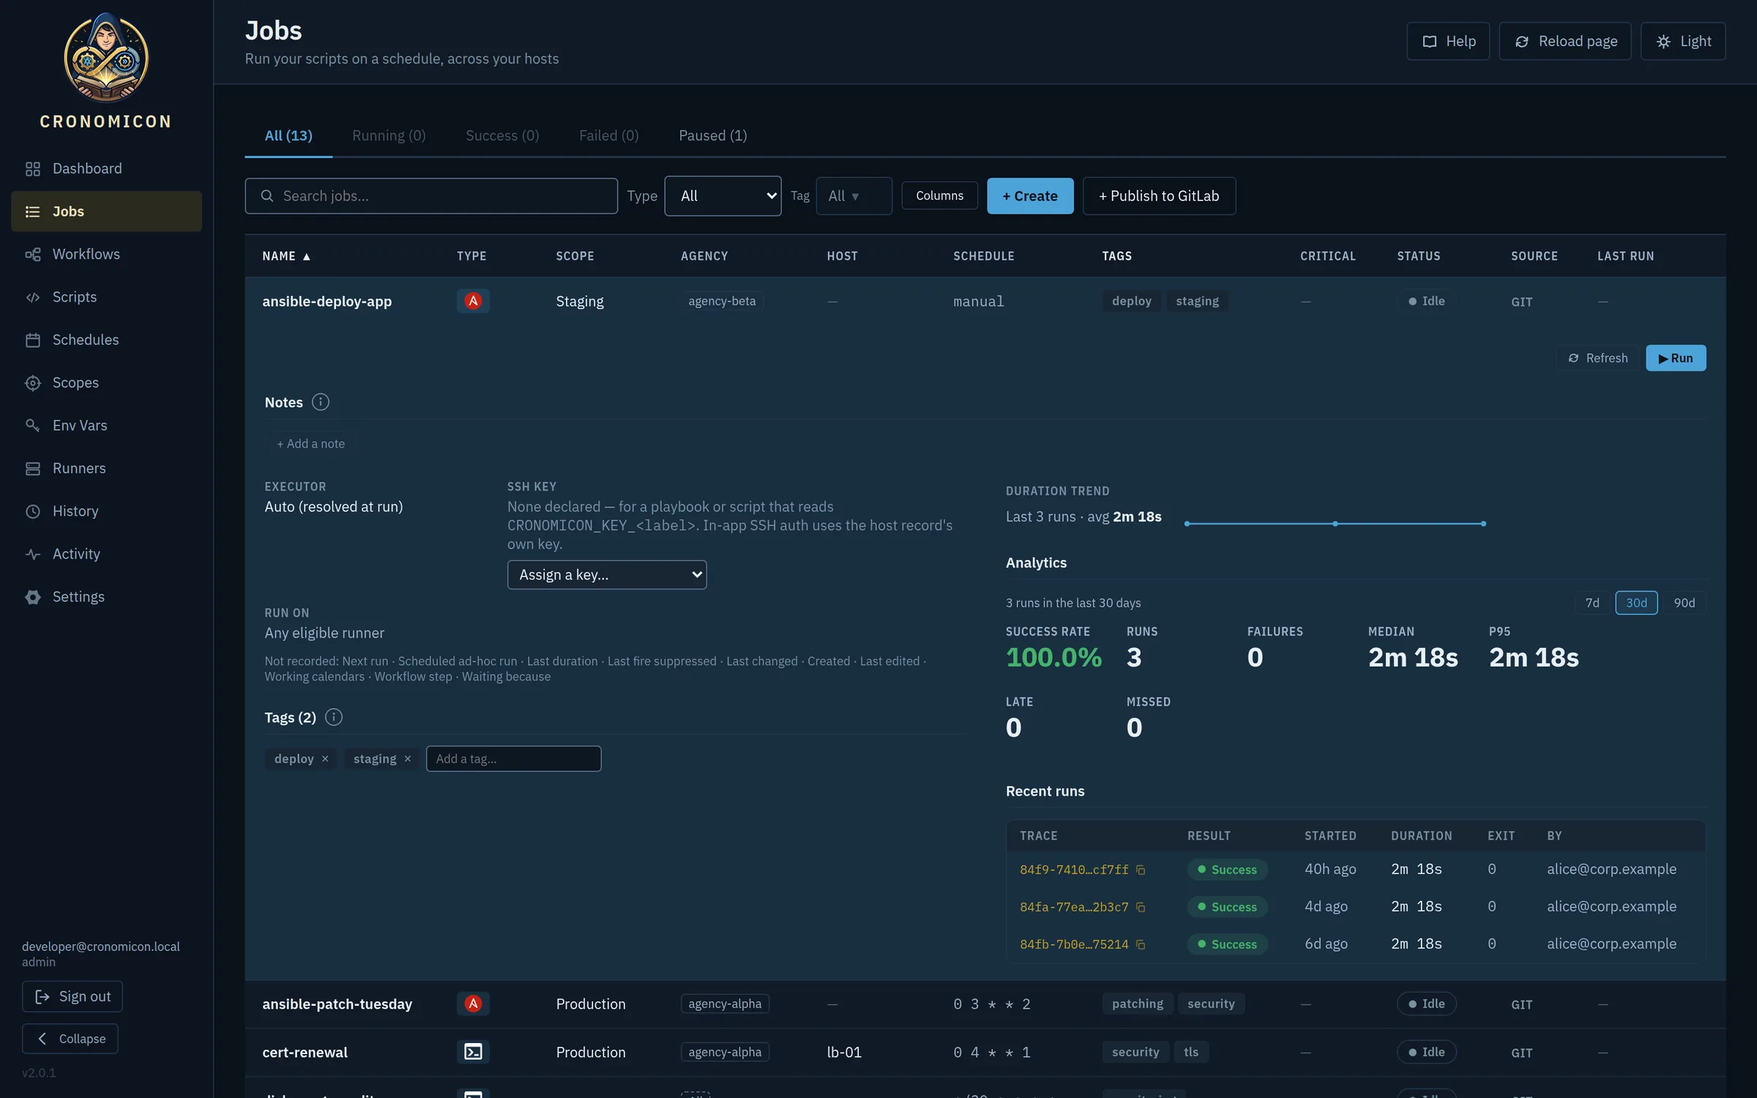
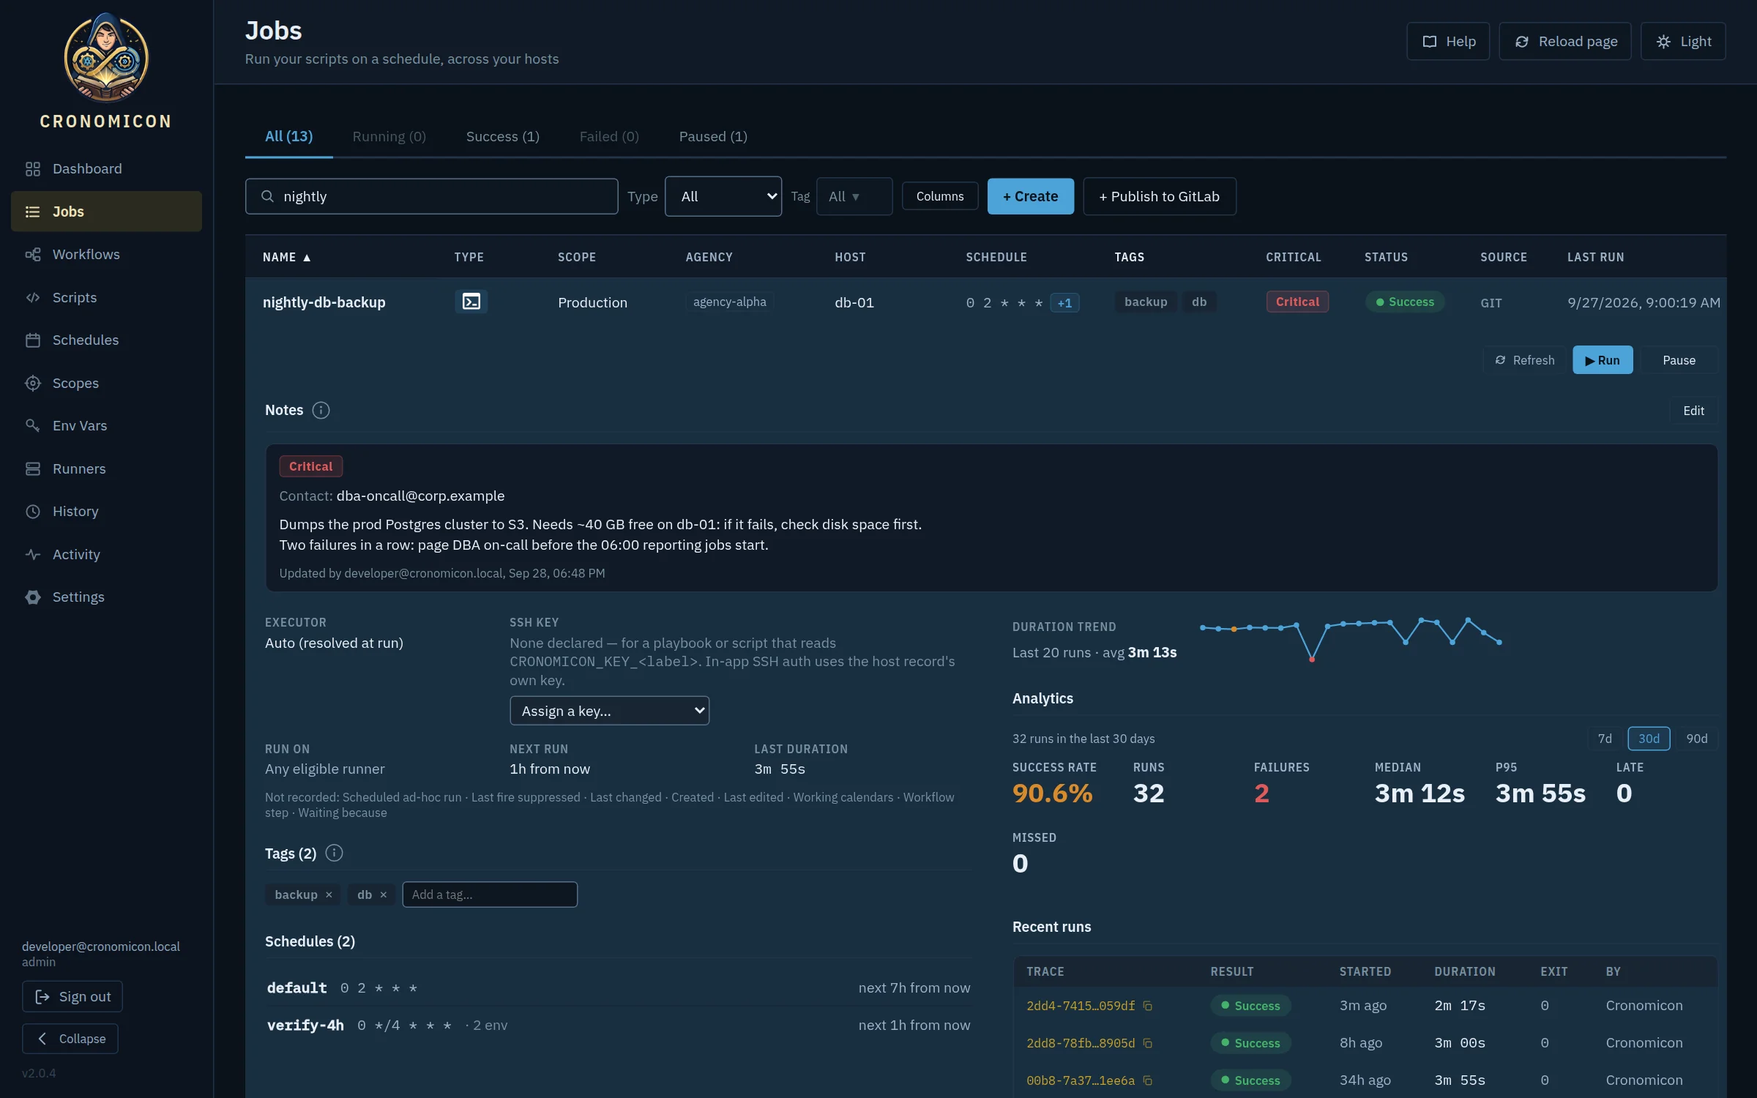
add interactive tour hotspots with synchronized captions and region highlighting

diff --git a/index.html b/index.html
@@ -201,59 +201,156 @@
         </div>
 
         <div class="tour-panel" role="tabpanel" id="panel-dash" aria-labelledby="tab-dash" hidden>
-          <div class="frame">
+          <div class="frame has-spots">
             <img class="only-dark" loading="lazy" src="assets/img/shots/dashboard-dark.webp" width="2400" height="1500" alt="Cronomicon Dashboard in dark mode: an attention banner reporting 3 jobs, stat tiles, and the Score timeline with past runs and upcoming fires">
             <img class="only-light" loading="lazy" src="assets/img/shots/dashboard-light.webp" width="2400" height="1500" alt="Cronomicon Dashboard in light mode: an attention banner reporting 3 jobs, stat tiles, and the Score timeline with past runs and upcoming fires">
+            <div class="spot-box" aria-hidden="true"></div>
+            <button class="spot" type="button" style="--x:13.6%;--y:10.2%;--w:84.9%;--h:4.7%" aria-describedby="dash-p1">1</button>
+            <button class="spot" type="button" style="--x:13.6%;--y:15.6%;--w:47.8%;--h:7.9%;--ax:61.4%" aria-describedby="dash-p2">2</button>
+            <button class="spot" type="button" style="--x:13.6%;--y:24.8%;--w:84.9%;--h:29.3%" aria-describedby="dash-p3">3</button>
+            <button class="spot" type="button" style="--x:13.6%;--y:65.1%;--w:84.9%;--h:11.3%" aria-describedby="dash-p4">4</button>
           </div>
-          <div class="tour-caption"><p>The <strong>Dashboard</strong> opens with what needs you. Failures and warnings from the last 24 hours sit in one banner, and the Score lays out the day behind you and the twelve hours ahead. Up next lists the next three fires.</p></div>
+          <div class="tour-caption">
+            <p>The <strong>Dashboard</strong> opens with what needs you.</p>
+            <ol class="tour-points">
+              <li id="dash-p1"><strong>Attention banner.</strong> Failures and warnings from the last 24 hours, in one line.</li>
+              <li id="dash-p2"><strong>Stat tiles.</strong> Failed, running, active schedules and total jobs at a glance.</li>
+              <li id="dash-p3"><strong>The Score.</strong> The day behind you and the twelve hours ahead, on one timeline.</li>
+              <li id="dash-p4"><strong>Up next.</strong> The next three fires, and how long until each.</li>
+            </ol>
+          </div>
         </div>
 
         <div class="tour-panel" role="tabpanel" id="panel-jobs" aria-labelledby="tab-jobs" hidden>
-          <div class="frame">
+          <div class="frame has-spots">
             <img class="only-dark" loading="lazy" src="assets/img/shots/jobs-dark.webp" width="2400" height="1500" alt="Jobs catalog in dark mode listing thirteen jobs with type, scope, agency, host, cron schedule, tags, status and source">
             <img class="only-light" loading="lazy" src="assets/img/shots/jobs-light.webp" width="2400" height="1500" alt="Jobs catalog in light mode listing thirteen jobs with type, scope, agency, host, cron schedule, tags, status and source">
+            <div class="spot-box" aria-hidden="true"></div>
+            <button class="spot" type="button" style="--x:13.6%;--y:10%;--w:30.4%;--h:4.8%;--ax:45%" aria-describedby="jobs-p1">1</button>
+            <button class="spot" type="button" style="--x:13.6%;--y:15.8%;--w:42.4%;--h:4%" aria-describedby="jobs-p2">2</button>
+            <button class="spot" type="button" style="--x:25.2%;--y:21.4%;--w:27.8%;--h:62.4%" aria-describedby="jobs-p3">3</button>
+            <button class="spot" type="button" style="--x:53.5%;--y:21.4%;--w:8.6%;--h:62.4%" aria-describedby="jobs-p4">4</button>
+            <button class="spot" type="button" style="--x:78.8%;--y:21.4%;--w:6.2%;--h:62.4%" aria-describedby="jobs-p5">5</button>
           </div>
-          <div class="tour-caption"><p>The <strong>Jobs</strong> catalog shows each job’s type, scope, owning department, host pin, cron schedule and last result. Filter it by tag, choose your columns, and browse jobs as a folder tree when the list gets long.</p></div>
+          <div class="tour-caption">
+            <p>The <strong>Jobs</strong> catalog holds every job, and turns into a folder tree when the list gets long.</p>
+            <ol class="tour-points">
+              <li id="jobs-p1"><strong>Status tabs.</strong> Jump straight to what’s running, failed or paused.</li>
+              <li id="jobs-p2"><strong>Filters.</strong> Search, filter by type or tag, and choose your columns.</li>
+              <li id="jobs-p3"><strong>Where it runs.</strong> Type, scope, owning department and host pin for each job.</li>
+              <li id="jobs-p4"><strong>Schedule.</strong> The cron expression, or manual.</li>
+              <li id="jobs-p5"><strong>Status.</strong> Each job’s current state and last result.</li>
+            </ol>
+          </div>
         </div>
 
         <div class="tour-panel" role="tabpanel" id="panel-detail" aria-labelledby="tab-detail" hidden>
-          <div class="frame">
-            <img class="only-dark" loading="lazy" src="assets/img/shots/job-detail-dark.webp" width="2400" height="1500" alt="An expanded job in dark mode showing executor, SSH key, duration trend, success rate, median and p95 duration, and recent runs">
-            <img class="only-light" loading="lazy" src="assets/img/shots/job-detail-light.webp" width="2400" height="1500" alt="An expanded job in light mode showing executor, SSH key, duration trend, success rate, median and p95 duration, and recent runs">
+          <div class="frame has-spots">
+            <img class="only-dark" loading="lazy" src="assets/img/shots/job-detail-dark.webp" width="2400" height="1500" alt="An expanded critical job in dark mode showing its on-call contact and notes, a duration trend, success rate, median and p95 duration, and recent runs">
+            <img class="only-light" loading="lazy" src="assets/img/shots/job-detail-light.webp" width="2400" height="1500" alt="An expanded critical job in light mode showing its on-call contact and notes, a duration trend, success rate, median and p95 duration, and recent runs">
+            <div class="spot-box" aria-hidden="true"></div>
+            <button class="spot" type="button" style="--x:15%;--y:36.4%;--w:83%;--h:17.6%;--ax:96%" aria-describedby="detail-p1">1</button>
+            <button class="spot" type="button" style="--x:57.2%;--y:56%;--w:28.6%;--h:4.4%;--ax:85.8%" aria-describedby="detail-p2">2</button>
+            <button class="spot" type="button" style="--x:90.2%;--y:66%;--w:7.7%;--h:2.4%" aria-describedby="detail-p3">3</button>
+            <button class="spot" type="button" style="--x:57.2%;--y:69%;--w:36.8%;--h:11%;--ax:75%" aria-describedby="detail-p4">4</button>
+            <button class="spot" type="button" style="--x:57.2%;--y:83.2%;--w:40.7%;--h:16.8%" aria-describedby="detail-p5">5</button>
           </div>
-          <div class="tour-caption"><p>Expand any job to see its <strong>duration trend</strong>, success rate and p95 over 7, 30 or 90 days, plus its recent runs. On-call notes, a contact and a critical flag stay attached to the job, so the next person sees them before they press Run.</p></div>
+          <div class="tour-caption">
+            <p>Expand any job to see how it has been doing, and what the next person needs to know.</p>
+            <ol class="tour-points">
+              <li id="detail-p1"><strong>Notes, contact, critical flag.</strong> They stay attached to the job, so the next person sees them before they press Run.</li>
+              <li id="detail-p2"><strong>Duration trend.</strong> Spot a job that is getting slower.</li>
+              <li id="detail-p3"><strong>7, 30 or 90 days.</strong> Pick the window the analytics cover.</li>
+              <li id="detail-p4"><strong>Analytics.</strong> Success rate, failures, median and p95, plus late and missed fires.</li>
+              <li id="detail-p5"><strong>Recent runs.</strong> Each with its trace ID, result, duration, exit code and who ran it.</li>
+            </ol>
+          </div>
         </div>
 
         <div class="tour-panel" role="tabpanel" id="panel-run" aria-labelledby="tab-run" hidden>
-          <div class="frame">
+          <div class="frame has-spots">
             <img class="only-dark" loading="lazy" src="assets/img/shots/run-dialog-dark.webp" width="2400" height="1500" alt="The Run dialog in dark mode with Inputs, Targets, Method, Timing and Advanced sections and a This run summary rail">
             <img class="only-light" loading="lazy" src="assets/img/shots/run-dialog-light.webp" width="2400" height="1500" alt="The Run dialog in light mode with Inputs, Targets, Method, Timing and Advanced sections and a This run summary rail">
+            <div class="spot-box" aria-hidden="true"></div>
+            <button class="spot" type="button" style="--x:9%;--y:25.8%;--w:51.6%;--h:35%" aria-describedby="run-p1">1</button>
+            <button class="spot" type="button" style="--x:9%;--y:48.6%;--w:51.6%;--h:5.6%;--ax:60.6%" aria-describedby="run-p2">2</button>
+            <button class="spot" type="button" style="--x:65%;--y:25.6%;--w:26.5%;--h:48.8%;--ax:91.5%" aria-describedby="run-p3">3</button>
+            <button class="spot" type="button" style="--x:78.8%;--y:76.6%;--w:12.2%;--h:4%" aria-describedby="run-p4">4</button>
           </div>
-          <div class="tour-caption"><p>Every ad-hoc run goes through the <strong>Run dialog</strong>. It has five sections: inputs, target hosts, executor and runner, timing, and advanced overrides. The rail on the right shows exactly what will run before you confirm, and a run can be deferred to a later time.</p></div>
+          <div class="tour-caption">
+            <p>Every ad-hoc run goes through the <strong>Run dialog</strong>.</p>
+            <ol class="tour-points">
+              <li id="run-p1"><strong>Five sections.</strong> Inputs, target hosts, executor and runner, timing, and advanced overrides.</li>
+              <li id="run-p2"><strong>Timing.</strong> Run now, or defer the run to a later time.</li>
+              <li id="run-p3"><strong>This run.</strong> Exactly what will run, before you confirm.</li>
+              <li id="run-p4"><strong>Confirm.</strong> Nothing runs until you press Run now.</li>
+            </ol>
+          </div>
         </div>
 
         <div class="tour-panel" role="tabpanel" id="panel-hist" aria-labelledby="tab-hist" hidden>
-          <div class="frame">
+          <div class="frame has-spots">
             <img class="only-dark" loading="lazy" src="assets/img/shots/history-drawer-dark.webp" width="2400" height="1500" alt="History in dark mode with an expanded run showing trace ID, result, exit code, duration, trigger, schedule and scope, above a list of runs">
             <img class="only-light" loading="lazy" src="assets/img/shots/history-drawer-light.webp" width="2400" height="1500" alt="History in light mode with an expanded run showing trace ID, result, exit code, duration, trigger, schedule and scope, above a list of runs">
+            <div class="spot-box" aria-hidden="true"></div>
+            <button class="spot" type="button" style="--x:13.9%;--y:10.4%;--w:38.2%;--h:3.6%;--ax:53.4%" aria-describedby="hist-p1">1</button>
+            <button class="spot" type="button" style="--x:13.6%;--y:15.6%;--w:84.9%;--h:3.4%" aria-describedby="hist-p2">2</button>
+            <button class="spot" type="button" style="--x:13.6%;--y:33.6%;--w:84.9%;--h:16%" aria-describedby="hist-p3">3</button>
+            <button class="spot" type="button" style="--x:14.8%;--y:50.8%;--w:82.7%;--h:6.6%" aria-describedby="hist-p4">4</button>
           </div>
-          <div class="tour-caption"><p><strong>History</strong> records every run with a trace ID, exit code, who or what triggered it, and where it ran. Logs tail live while a job runs, secrets are masked, and old logs can move to S3 without leaving the view.</p></div>
+          <div class="tour-caption">
+            <p><strong>History</strong> records every run. Logs tail live while a job runs, and old logs can move to S3 without leaving the view.</p>
+            <ol class="tour-points">
+              <li id="hist-p1"><strong>Every kind of history.</strong> Executions, workflow runs, analytics, changes, schedule pushes and Git sync.</li>
+              <li id="hist-p2"><strong>Search by trace ID.</strong> Or filter by type, result, trigger and how a run stopped.</li>
+              <li id="hist-p3"><strong>The full record.</strong> Trace ID, exit code, who or what triggered it, and where it ran.</li>
+              <li id="hist-p4"><strong>Masked logs.</strong> Output is stored with secrets redacted.</li>
+            </ol>
+          </div>
         </div>
 
         <div class="tour-panel" role="tabpanel" id="panel-sched" aria-labelledby="tab-sched" hidden>
-          <div class="frame">
+          <div class="frame has-spots">
             <img class="only-dark" loading="lazy" src="assets/img/shots/schedules-dark.webp" width="2400" height="1500" alt="Schedules view in dark mode on the Upcoming tab, listing projected fires for the next 24 hours with owner, schedule and cron">
             <img class="only-light" loading="lazy" src="assets/img/shots/schedules-light.webp" width="2400" height="1500" alt="Schedules view in light mode on the Upcoming tab, listing projected fires for the next 24 hours with owner, schedule and cron">
+            <div class="spot-box" aria-hidden="true"></div>
+            <button class="spot" type="button" style="--x:13.9%;--y:10.4%;--w:27.4%;--h:3.8%;--ax:42.6%" aria-describedby="sched-p1">1</button>
+            <button class="spot" type="button" style="--x:13.6%;--y:15.4%;--w:13.9%;--h:3.4%" aria-describedby="sched-p2">2</button>
+            <button class="spot" type="button" style="--x:13.6%;--y:24.4%;--w:84.9%;--h:75.6%" aria-describedby="sched-p3">3</button>
+            <button class="spot" type="button" style="--x:65%;--y:24.4%;--w:9%;--h:75.6%" aria-describedby="sched-p4">4</button>
           </div>
-          <div class="tour-caption"><p><strong>Schedules</strong> are reusable, so one definition can drive many jobs. The Upcoming tab projects every fire for the next day or week. Working calendars and reactions have their own tabs next to it.</p></div>
+          <div class="tour-caption">
+            <p>The <strong>Schedules</strong> view shows what fires next.</p>
+            <ol class="tour-points">
+              <li id="sched-p1"><strong>Calendars and reactions.</strong> Working calendars and reactions have their own tabs beside Upcoming.</li>
+              <li id="sched-p2"><strong>Next day or week.</strong> Upcoming projects every fire in the window.</li>
+              <li id="sched-p3"><strong>Every projected fire.</strong> When it fires, what it runs and the cron behind it.</li>
+              <li id="sched-p4"><strong>Reusable schedules.</strong> One definition, like verify-4h, can drive many jobs.</li>
+            </ol>
+          </div>
         </div>
 
         <div class="tour-panel" role="tabpanel" id="panel-runners" aria-labelledby="tab-run2" hidden>
-          <div class="frame">
+          <div class="frame has-spots">
             <img class="only-dark" loading="lazy" src="assets/img/shots/runners-dark.webp" width="2400" height="1500" alt="Runners view in dark mode: five runners with status, operating system, capability chips, agencies, load and last-seen time">
             <img class="only-light" loading="lazy" src="assets/img/shots/runners-light.webp" width="2400" height="1500" alt="Runners view in light mode: five runners with status, operating system, capability chips, agencies, load and last-seen time">
+            <div class="spot-box" aria-hidden="true"></div>
+            <button class="spot" type="button" style="--x:13.6%;--y:15.6%;--w:84.9%;--h:7.6%" aria-describedby="runners-p1">1</button>
+            <button class="spot" type="button" style="--x:28.2%;--y:33.6%;--w:7.8%;--h:39.6%" aria-describedby="runners-p2">2</button>
+            <button class="spot" type="button" style="--x:44.2%;--y:33.6%;--w:11.8%;--h:39.6%" aria-describedby="runners-p3">3</button>
+            <button class="spot" type="button" style="--x:71.5%;--y:33.6%;--w:3%;--h:39.6%" aria-describedby="runners-p4">4</button>
+            <button class="spot" type="button" style="--x:83.4%;--y:10.4%;--w:7.5%;--h:3.6%" aria-describedby="runners-p5">5</button>
           </div>
-          <div class="tour-caption"><p><strong>Runners</strong> report their capabilities (Ansible version, collections, Vault access, Python) and their load. They can be drained or recovered from the console. To add one, mint a single-use token and paste one command on the host.</p></div>
+          <div class="tour-caption">
+            <p><strong>Runners</strong> are your execution fleet.</p>
+            <ol class="tour-points">
+              <li id="runners-p1"><strong>Fleet health.</strong> Online, degraded, draining and offline counts at a glance.</li>
+              <li id="runners-p2"><strong>Status.</strong> Drain a runner or recover it from the console.</li>
+              <li id="runners-p3"><strong>Capabilities.</strong> Each runner reports its Ansible version, collections, Vault access and Python.</li>
+              <li id="runners-p4"><strong>Load.</strong> Running jobs against each runner’s limit.</li>
+              <li id="runners-p5"><strong>Add a runner.</strong> Mint a single-use token and paste one command on the host.</li>
+            </ol>
+          </div>
         </div>
       </div>
     </div>

diff --git a/assets/css/site.css b/assets/css/site.css
@@ -482,6 +482,47 @@ h3 { font: 600 1.2rem/1.3 var(--sans); margin: 0 0 8px; }
 .tour-caption p { margin: 0; }
 .tour-caption strong { color: var(--text); font-weight: 600; }
 
+/* Hotspots: numbered markers over a screenshot, paired with a numbered caption list. Each
+   marker carries its region as --x/--y/--w/--h (percentages of the frame); site.js copies
+   the active one onto .spot-box, which dims everything outside it. --ax moves a marker
+   along its region when two would crowd each other. */
+.frame.has-spots { position: relative; }
+.spot {
+  position: absolute; z-index: 2; left: var(--ax, var(--x)); top: calc(var(--y) + var(--h) / 2);
+  width: 26px; height: 26px; margin: -13px 0 0 -13px; padding: 0;
+  display: grid; place-items: center; border-radius: var(--r-pill); cursor: pointer;
+  font: 600 13px/1 var(--mono); color: var(--on-solid); background: var(--accent);
+  border: 2px solid var(--bg-deep); box-shadow: 0 0 0 3px var(--halo);
+  transition: transform .15s, box-shadow .15s;
+}
+.spot.is-active { transform: scale(1.15); box-shadow: 0 0 0 5px var(--halo); }
+.spot-box {
+  position: absolute; z-index: 1; pointer-events: none; opacity: 0;
+  border: 2px solid var(--accent); border-radius: var(--r-chip);
+  box-shadow: 0 0 0 9999px rgba(7, 12, 18, .55);
+  transition: opacity .2s, left .25s, top .25s, width .25s, height .25s;
+}
+.spot-box.is-on { opacity: 1; }
+.tour-caption .tour-points { grid-column: 1 / -1; }
+.tour-points {
+  list-style: none; margin: 0; padding: 0; counter-reset: point;
+  display: grid; grid-template-columns: repeat(2, minmax(0, 1fr)); gap: 6px 24px;
+}
+.tour-points li {
+  position: relative; counter-increment: point; padding: 8px 10px 8px 44px;
+  border-radius: var(--r-chip); cursor: default; transition: background-color .15s;
+}
+.tour-points li::before {
+  content: counter(point); position: absolute; left: 10px; top: 9px;
+  width: 22px; height: 22px; display: grid; place-items: center; border-radius: var(--r-pill);
+  font: 600 12px/1 var(--mono); color: var(--accent); border: 1px solid var(--accent);
+}
+.tour-points li.is-active { background: var(--accent-bg); }
+.tour-points li.is-active::before { color: var(--on-solid); background: var(--accent); }
+@media (max-width: 700px) { .tour-points { grid-template-columns: minmax(0, 1fr); } }
+@media (max-width: 560px) { .spot { width: 20px; height: 20px; margin: -10px 0 0 -10px; font-size: 11px; border-width: 1px; } }
+@media (prefers-reduced-motion: reduce) { .spot, .spot-box { transition: none; } }
+
 @media (max-width: 900px) {
   .tour { grid-template-columns: minmax(0, 1fr); }
   .tour-tabs { position: static; flex-direction: row; overflow-x: auto; gap: 0; border-bottom: 1px solid var(--border); scrollbar-width: none; }

diff --git a/assets/js/site.js b/assets/js/site.js
@@ -114,6 +114,44 @@
     });
   });
 
+  /* ---------- Tour hotspots ---------- */
+  // Each marker and its caption item point at each other through aria-describedby.
+  // Hovering, focusing or tapping either one spotlights that region of the screenshot.
+  Array.prototype.forEach.call(document.querySelectorAll(".frame.has-spots"), function (frame) {
+    var box = frame.querySelector(".spot-box");
+    var panel = frame.parentNode;
+    var pairs = Array.prototype.map.call(frame.querySelectorAll(".spot"), function (spot) {
+      return { spot: spot, item: document.getElementById(spot.getAttribute("aria-describedby")) };
+    });
+
+    function show(pair) {
+      var wasOn = box.classList.contains("is-on");
+      if (pair && !wasOn) box.style.transition = "none"; // appear in place, don't fly in from the corner
+      pairs.forEach(function (p) {
+        var on = p === pair;
+        p.spot.classList.toggle("is-active", on);
+        p.item.classList.toggle("is-active", on);
+      });
+      if (pair) {
+        ["x", "y", "w", "h"].forEach(function (k, i) {
+          box.style[["left", "top", "width", "height"][i]] = pair.spot.style.getPropertyValue("--" + k);
+        });
+        if (!wasOn) { void box.offsetWidth; box.style.transition = ""; }
+      }
+      box.classList.toggle("is-on", !!pair);
+    }
+
+    pairs.forEach(function (p) {
+      [p.spot, p.item].forEach(function (el) {
+        el.addEventListener("mouseenter", function () { show(p); });
+        el.addEventListener("click", function () { show(p); });
+      });
+      p.spot.addEventListener("focus", function () { show(p); });
+    });
+    panel.addEventListener("mouseleave", function () { if (!panel.contains(document.activeElement)) show(null); });
+    panel.addEventListener("focusout", function (e) { if (!panel.contains(e.relatedTarget)) show(null); });
+  });
+
   function setVideo(play) {
     if (!video) return;
     if (play) { var p = video.play(); if (p && p.catch) p.catch(function () {}); }
